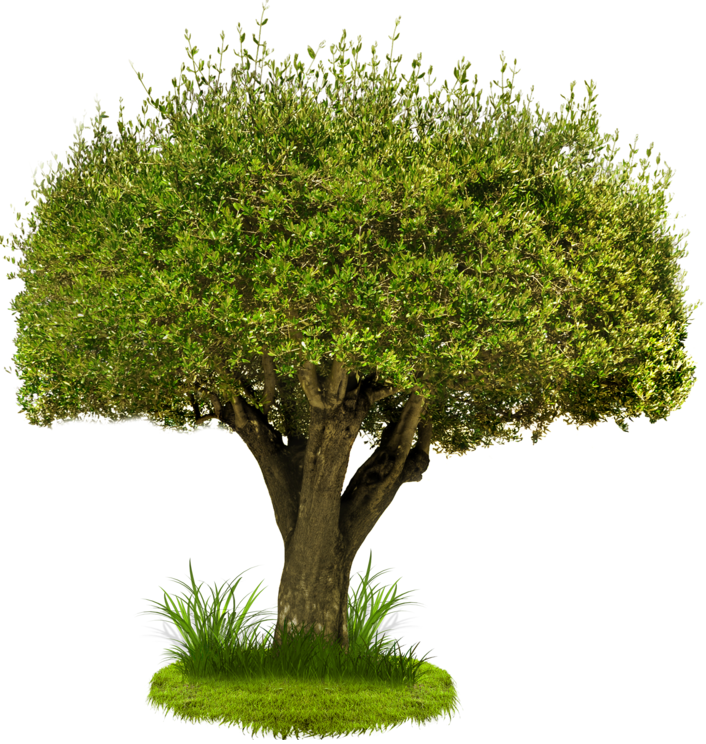
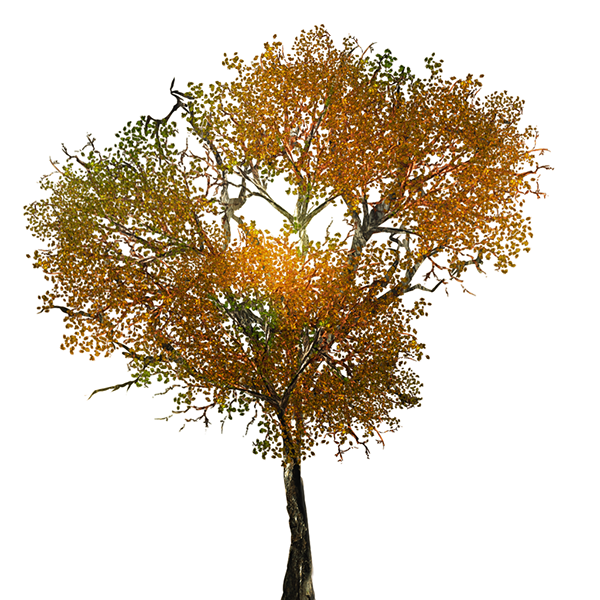
Changed Tree Images Imported from Changeset 26

diff --git a/Grundschulprojekt/html/minigame3.html b/Grundschulprojekt/html/minigame3.html
@@ -32,19 +32,19 @@
                 rand = Math.floor((Math.random() * 120) + 1);
 
                 for (var i = 0; i < rand; i++) {
-                    var randPic = Math.floor((Math.random() * 2) + 1);
+                    var randPic = Math.floor((Math.random() * 3) + 1);
                     zInd++;
                     var id = "tree" + zInd;
                     $("#treeBin").append('<div class="treeLap">' +
                         '<img src="../img/treeGame/tree' + randPic + '.png" id=' + id + '" height="50" width="50"></div>');
                     var t = $("#tree" + zInd);
                     t.css("z-index", zInd)
+                    t.css("position", "absolute");
 
                     $(".treeLap").css("display", "inline");
-                    console.log("Z-INDEX: " + zInd);
+                    //console.log("Z-INDEX: " + zInd);
                     t.animate({ 'top': '150px' }, 200);
                 }
-
             }
             else {
                 $("#treeBin").empty();
@@ -69,8 +69,9 @@
     });
 </script>
 
-<!--In der Position überlappend...-->
+<!--In der Position überlappend...
 <div style="position:absolute; top:150px; left:0; background-color: red;" id="test">
     <img src="../img/treeGame/tree2.png" id="tree2" height="50" width="50" position="relative" style="z-index: 29; top: 150px;" class="" />
     <img src="../img/treeGame/tree1.png" id="tree1" height="50" width="50" position="relative" style="z-index: 2; position: relative; top: 41.125px; left: 142px;" />
 </div>
+-->
